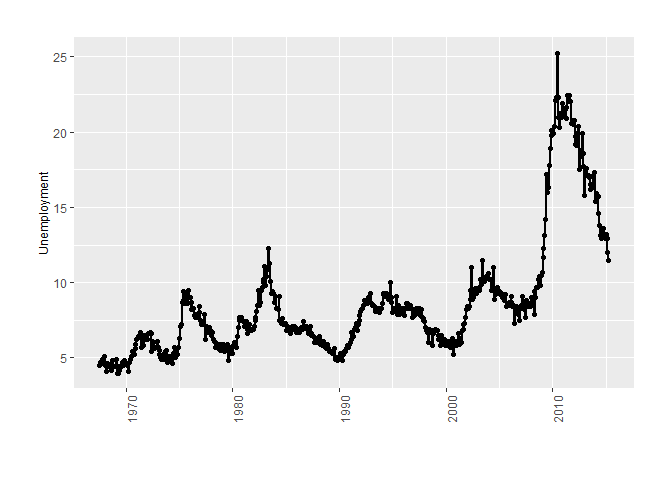
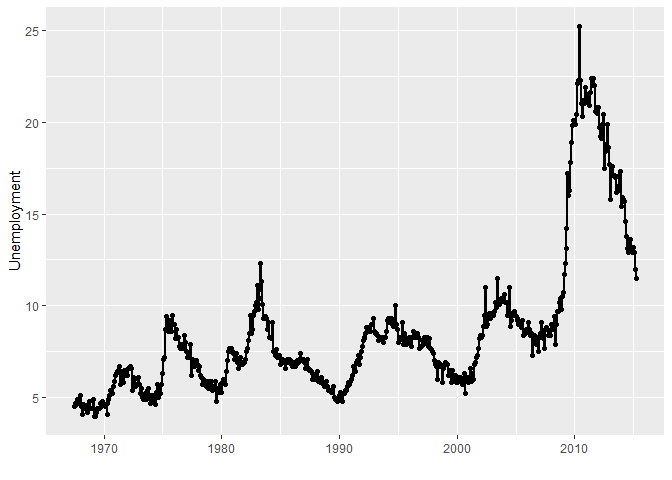
refactor

diff --git a/README.md b/README.md
@@ -25,7 +25,6 @@ Before ggDarwin
 ``` r
 library(ggDarwin)
 library(dplyr)
-#> Warning: package 'dplyr' was built under R version 4.1.3
 #> 
 #> Attaching package: 'dplyr'
 #> The following objects are masked from 'package:stats':
@@ -36,13 +35,11 @@ library(dplyr)
 #>     intersect, setdiff, setequal, union
 library(ggplot2)
 library(lubridate)
-#> Warning: package 'lubridate' was built under R version 4.1.2
 #> 
 #> Attaching package: 'lubridate'
 #> The following objects are masked from 'package:base':
 #> 
 #>     date, intersect, setdiff, union
-
 
 Sys.setlocale("LC_TIME", "English")
 #> [1] "English_United States.1252"
@@ -57,10 +54,7 @@ economics %>%
   geom_point(aes(date,y=y.var))+
   geom_line(aes(date,y=y.var), size=0.8)+
   scale_y_continuous(name= y.name)+
-  xlab("")+
-  theme(axis.text.x = element_text(angle=90, size =9),
-        axis.title.y = element_text(size = 9),
-        plot.margin=grid::unit(c(1,1,1,1), "cm"))
+  xlab("")
 ```
 
 <img src="man/figures/README-unnamed-chunk-2-1.png" width="100%" />
@@ -79,11 +73,8 @@ economics %>%
   geom_line(aes(date,y=y.var), size=0.8)+
   scale_y_continuous(name= y.name)+
   xlab("")+
-  theme(axis.text.x = element_text(angle=90, size =9),
-        axis.title.y = element_text(size = 9),
-        plot.margin=grid::unit(c(1,1,1,1), "cm"))+
-  gg_darwin_time_series(time,start,end, interval)+
-  gg_darwin_theme()
+  scale_x_date_darwin(time,start,end, interval)+
+  theme_darwin()
 ```
 
 <img src="man/figures/README-unnamed-chunk-3-1.png" width="100%" />
